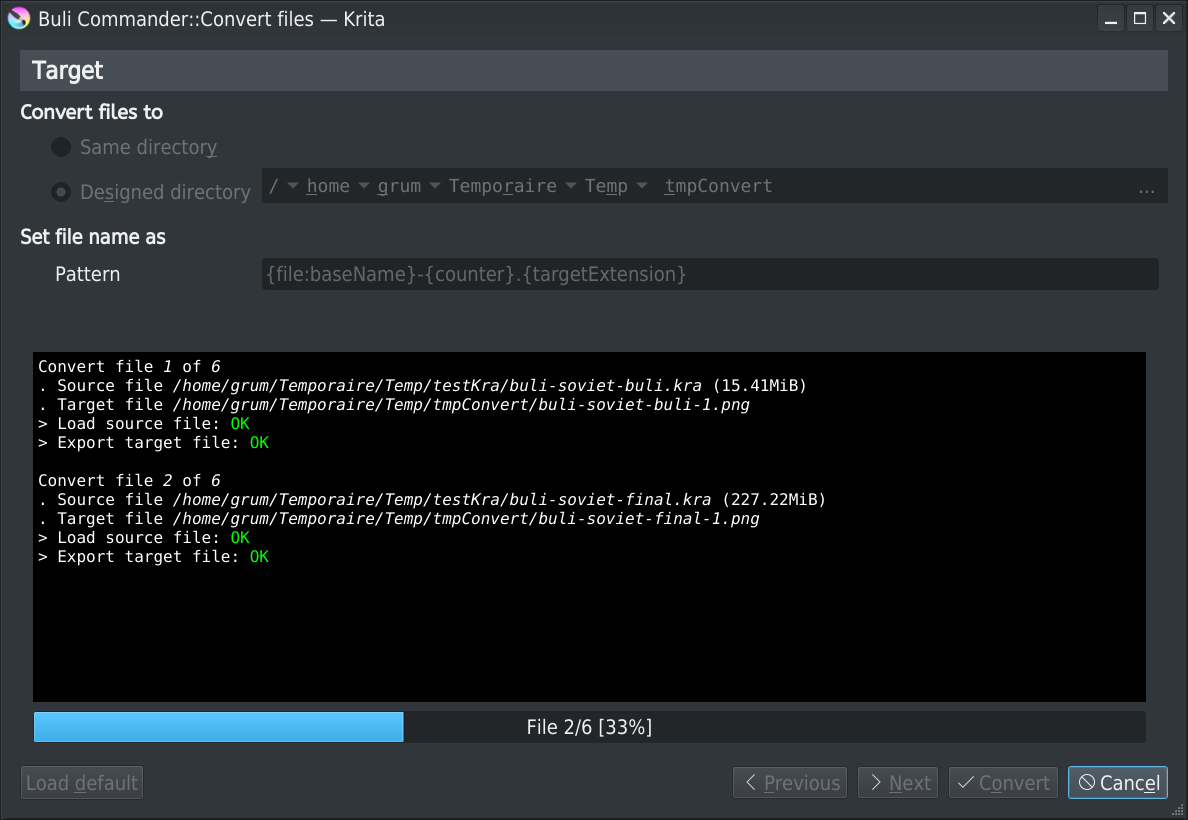
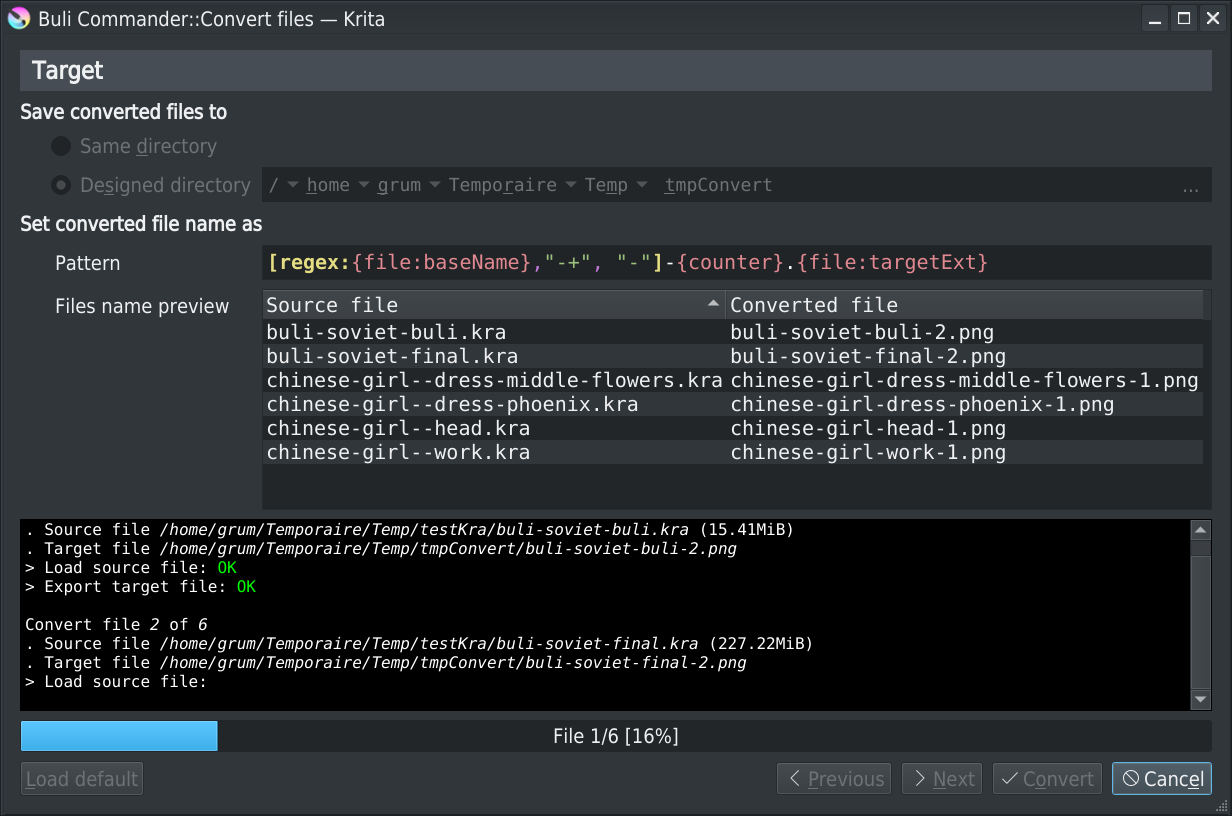
Update release note
. Update screenshot+description

diff --git a/releases-notes/RELEASE-0.5.0a.md b/releases-notes/RELEASE-0.5.0a.md
@@ -21,8 +21,8 @@ A simple dialog box to set new file (or directory) name\
 > Multiples files *OR* mulitples directories can be renamed at the same time, not the both
 > If files and directories are selected, function is not available
 
-The renaming functionnality provides a set of functions and keywords to build new file name.
-The 'language' tries to be as simple as possible, to let non developper being able to use it.
+The renaming functionnality provides a set of functions and keywords to build new file name.\
+The dedicated *expression language* tries to be as simple as possible, to let non developper being able to use it.
 
 Interface provides an editor with:
  - Highlighted syntax
@@ -97,7 +97,8 @@ Available *keyword* list:
 
 The convert tool allows to convert multiples KRA/PNG/JPEG files to KRA/PNG/JPEG files.
 - Target format PNG/JPEG provides similar options than Krita *export* option (modulo: EXIF/IPTC are not managed)
-- Target file name can be defined with markup (allowing to set, or not, the same base filename than original file)
+- Target file name can be defined from rules, allowing to set or not, the same base file name than original file\
+  => Use the same *expression language* than one defined for renaming files
 - If target already exist, file conversion is automatically skipped
 
 > **Note:**
@@ -176,3 +177,22 @@ Add possibility to define how image are drawn in thumbnail area:
 *Image crop mode*
 
 ![Export file list - image crop](https://github.com/Grum999/BuliCommander/raw/master/screenshots/r0-5-0a_exportlist_imgcrop.png)
+
+## Fix bug -  *cropped path bar*
+
+Tried to fix this annoying bug, it should be Ok now... I hope :-)
+
+*Cropped path bar*
+
+![Cropped path bar](https://github.com/Grum999/BuliCommander/raw/master/screenshots/r0-5-0a_bug-croppedpathbar.png)
+
+
+## Fix bug - *Invalid font*
+
+For an unknown reason, some user interface were defined with a local installed font instead of embedded Qt 'DejaVu Sans' font.\
+Fixed this problem.
+
+## Fix bug - *Invalid key configuration*
+
+A bad copy/paste to manage automated saved settings for *Export file list* tool and pouf, script was crashing when trying to export files to PNG/JPEG file format.\
+Fixed this problem.
